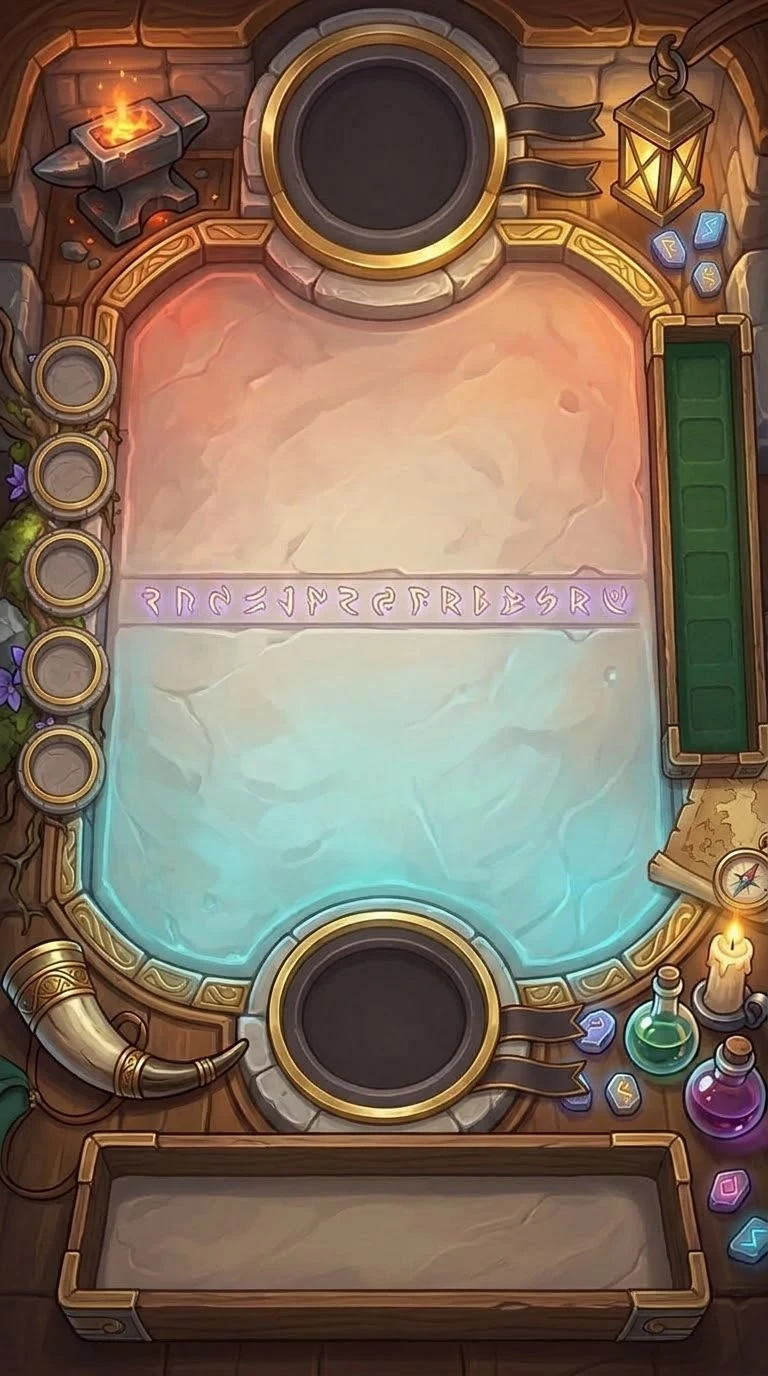
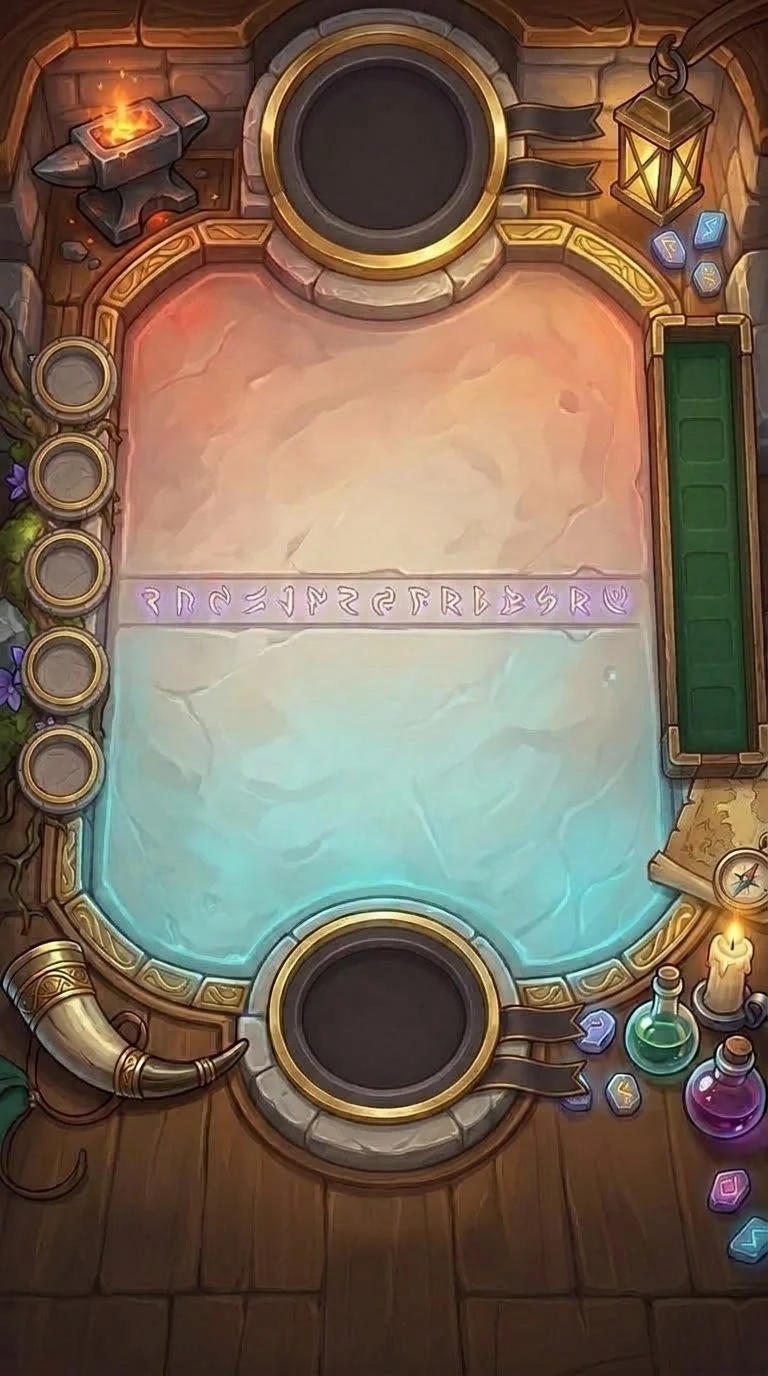
Guilde : votre dernier plateau Gemini dans le jeu ; prompt 8 bis (retouche : bac des dés dans le cadre, rubans du bas)

Changed region(s): [[0.0625, 0.8125, 0.9375, 1.0], [0.9688, 0.625, 1.0, 0.6562], [0.0625, 0.6875, 0.0938, 0.7188]]

diff --git a/essais/dice-arena/prompts-interface.html b/essais/dice-arena/prompts-interface.html
@@ -27,10 +27,10 @@
 <div class="bloc plan" style="border:2px solid #f3c96b">
 <h2>📌 Où on en est (11/11 au soir)</h2>
 <ul>
-  <li><b>À faire maintenant : UN SEUL prompt, le n° 8 « le plateau final »</b>. Les essais 5 bis, 5 ter et 5 quater sont retirés : ils sont remplacés par le 8.</li>
+  <li><b>À faire maintenant : UN SEUL prompt, le n° 8 bis</b> (retouche de votre dernier plateau : bac des dés dans le cadre, rubans du bas retirés). Le n° 8 ne sert que si la retouche échoue (il refait tout le plateau). Les essais 5 bis, 5 ter et 5 quater sont retirés.</li>
   <li>✅ <b>N° 7, la planche d’interface</b> : reçue, découpée, déjà dans le jeu (médaillons, cœur, bouclier, cadre du portrait).</li>
   <li>✅ <b>N° 5, l’ancien plateau</b> : plus besoin.</li>
-  <li>En attendant le plateau final, le jeu utilise <b>votre 1er essai Gemini</b> (capture : <a href="https://demo-hub.elvanys.fr/planches/guilde-plateau-v2-dans-le-jeu-11-11.png">le plateau v2 dans le jeu</a>).</li>
+  <li>En attendant le plateau final, le jeu utilise <b>votre dernier plateau</b> (sans la boîte du bas) (capture : <a href="https://demo-hub.elvanys.fr/planches/guilde-plateau-v2-dans-le-jeu-11-11.png">le plateau v2 dans le jeu</a>).</li>
   <li>Plus tard : 1, 1 bis, 2 (portail et monde de la Guilde), 3 et 4 (îles de l’Odyssée), 6 (décors et pages de chronique).</li>
 </ul>
 </div>
@@ -88,6 +88,11 @@ Painted stylized fantasy illustration, generous readable shapes, soft outlines, 
 </main>
 <script>
 const P = [
+ { t:'⭐ 8 bis. À FAIRE MAINTENANT · Retouche de votre plateau du 11/11 soir (bac des dés dans le cadre, rubans du bas retirés)', j:'Joignez VOTRE dernier plateau (sans la boîte du bas, 5 ronds) : https://demo-hub.elvanys.fr/essais/dice-arena/decor/plateau-duel-v3.jpg — Fichier attendu : plateau-duel-final.jpg',
+   x:`Edit the attached image. Keep EXACTLY everything else, pixel for pixel: same framing, same size, same camera angle, same two alcoves, same five sockets on the left, same play area and line of runes, same wooden floor at the bottom, same props. Make ONLY these two changes:
+1. The dark green felt dice tray on the right edge must not look like a separate wooden box laid on top of the board. Keep it at EXACTLY the same place and size, but sink it INTO the carved wooden frame: the frame of the play area continues around it with the same carved gold trim, the tray becomes a recessed channel carved in the frame (flush with the frame surface, no outer box walls, no box corners, no drop shadow under it).
+2. Remove the two dark ribbons on the right of the BOTTOM alcove; in their place, show the carved stone and wood of the frame and the small glowing rune stones that were partly hidden behind them. Keep the two ribbons of the TOP alcove.
+No text, no letters, no numbers, no logo, no signature, no watermark.` },
  { t:'⭐ 8. À FAIRE · LE PLATEAU FINAL (le seul prompt de plateau à prendre)', j:'Joignez VOTRE DERNIÈRE image de plateau (celle avec 6 ronds et le bac des dés pris dans le cadre ; téléchargez l’image elle-même, pas une capture d’écran). Fichier attendu : plateau-duel-final.jpg. Mise en page voulue (votre 1er essai dans le vrai jeu) : https://demo-hub.elvanys.fr/planches/guilde-plateau-v2-dans-le-jeu-11-11.png',
    x:`Using the attached image as the reference for EVERYTHING (same digital painted style, same carved wood, stone and gold frame, same two round hero alcoves, same central play area with its line of glowing runes, same warm and magical colors, same corner props), paint the FINAL version of this mobile game board, vertical 9:16, filling the whole image, with this exact layout (percentages of the image width and height):
 - TOP alcove: round, dark and EMPTY inside, gold rim, centered at 50 % of the width and 11 % of the height, about 32 % of the width wide; two small dark ribbons on its right side.

diff --git a/essais/dice-arena/duel.html b/essais/dice-arena/duel.html
@@ -422,7 +422,7 @@
   /* ===== plateau peint v2 (Gemini, 11/11) : tout est calé sur ses emplacements mesurés (en % de l'image) =====
      alcôves : centre x 50 %, haut y 10,8 %, bas y 74 %, trou 22,5 % de la largeur · ronds à gauche : x 8,6 %, y 27 / 34 / 41 / 48 / 55,4 %, 10 % de large
      bac des dés : x 85 → 98 %, y 23 → 56 % · aire de jeu : x 12 → 90 %, y 18 → 70 %, runes à 43,4 % · bas : y 82 → 97 % (la main) */
-  .plateau.tapis.unique:not(.scene) { background:#2a2014 url('decor/plateau-duel-v2.webp?v=1') center/100% 100% no-repeat; }
+  .plateau.tapis.unique:not(.scene) { background:#2a2014 url('decor/plateau-duel-v2.webp?v=2') center/100% 100% no-repeat; }
   .unique .barre { left:40.8cqw; width:18.4cqw; height:18.4cqw; }
   .unique #b-O { top:calc(10.8cqh - 9.2cqw); } .unique #b-J { top:calc(74cqh - 9.2cqw); }
   .unique .barre .cadre, .unique .anneau { left:-6.8cqw; top:-6.8cqw; width:32cqw; height:32cqw; }
